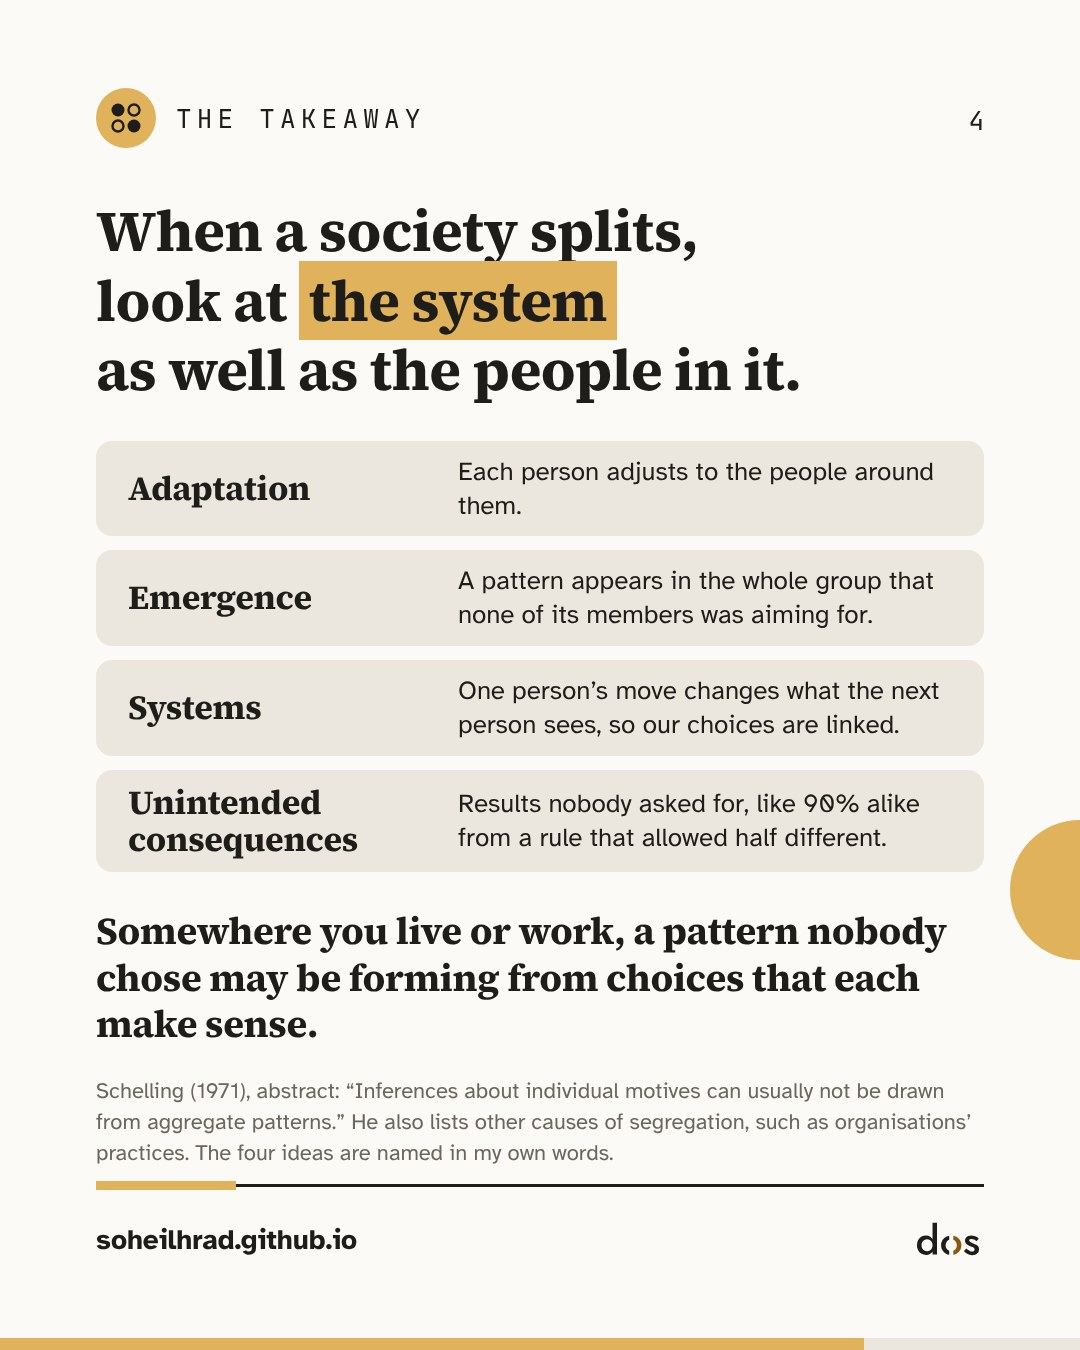
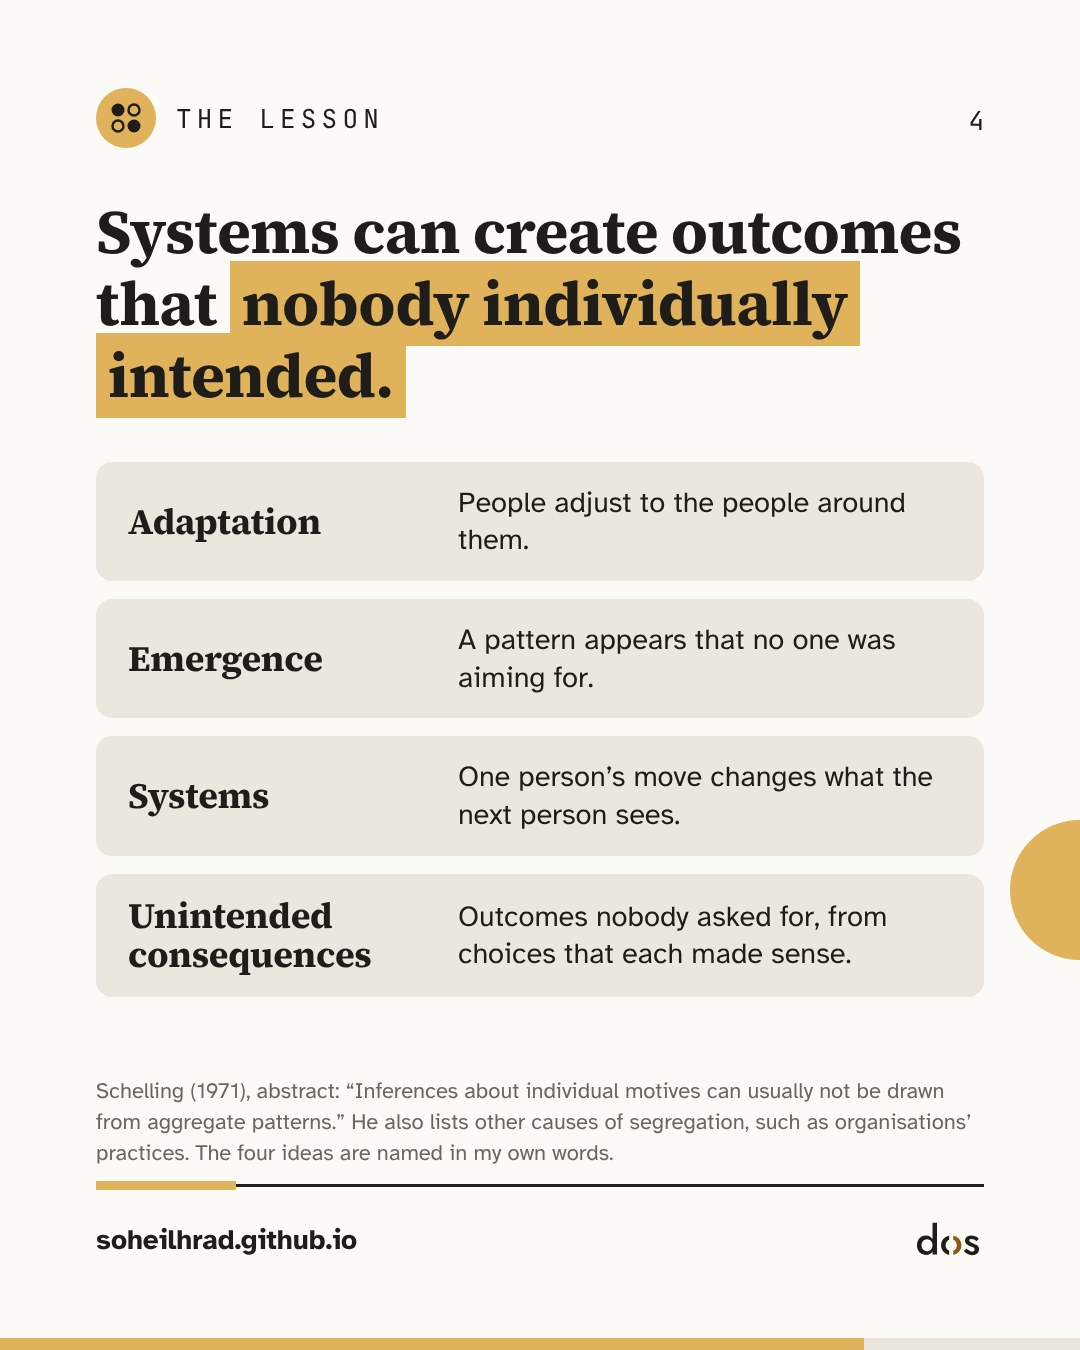
Schelling note: refocus the five slides on emergence
Slide 1 hook asks whether a divided world can emerge from reasonable
choices; slide 2 leads with the outcome rather than the figure; slide 3
shows that each move changes what the next person sees; slide 4 is the
lesson behind the model; slide 5 ends on a question. Slide 1 is the
still board for now; the old animated version is removed because its
headline is outdated.

Claude-Session: https://claude.ai/code/session_01PL3C4wNgfD4zTrRayGWWdK

Changed region(s): [[0.0917, 0.1556, 0.9167, 0.7778], [0.2444, 0.0622, 0.3667, 0.0933]]

diff --git a/fa/_posts/2026-10-25-schelling-segregation.md b/fa/_posts/2026-10-25-schelling-segregation.md
@@ -12,16 +12,16 @@ slides_height: 1350
 slides_lang: en
 last_modified_at: 2026-10-25
 slides:
-  - file: slide1.gif
-    alt: "صفحهای از سکههای تیره و طلایی با چند خانهٔ خالی، که قدمبهقدم جابهجا میشوند تا رنگها در دستههایی کنار هم بنشینند. همه در اینجا میپذیرند که تا نیمی از همسایههایشان با آنها فرق داشته باشند. دو نوع سکه دو گروه را نشان میدهند. اگر کمتر از نیمی از همسایههای یک سکه مثل خودش باشند، به نزدیکترین خانهٔ خالیای میرود که در آن راضی خواهد بود."
+  - file: slide1.jpg
+    alt: "اگر جهانی دو دستهشده بتواند از انتخابهای معقول پدید بیاید چه؟ دو نوع سکه دو گروه را نشان میدهند. همه در اینجا میپذیرند که تا نیمی از همسایههایشان با آنها فرق داشته باشند. اگر کمتر از نیمی از همسایهها مثل خودش باشند، سکه به نزدیکترین خانهٔ خالیای میرود که در آن راضی خواهد بود. صفحهای ۱۲ در ۱۲ از سکههای تیره و طلایی با چند خانهٔ خالی، پس از جابهجاییها، با رنگهایی که دستهدسته کنار هماند."
   - file: slide2.jpg
-    alt: "تا نیمی از همسایهها میتوانستند متفاوت باشند. ۹۰ درصد همرنگ شدند. در یکی از مثالهای حلشدهٔ شلینگ، اگر خودِ فرد را هم بشماریم، یک آدم معمولی در محلهای میماند که ۹۰ درصدِ آن همرنگ خودش است. دو صفحه: آغاز، با رنگهای درهم، و پس از جابهجاییها، با رنگهایی که دستهدسته کنار هماند. این یک اجرای شبیهسازی خودم از قاعده روی صفحهای ۱۲ در ۱۲ است که به ۸۳ درصد میرسد."
+    alt: "بیش از آنچه کسی خواسته بود دو دسته شد. هر سکه فقط لازم داشت که نیمی از همسایههایش مثل خودش باشند. در یکی از مثالهای حلشدهٔ شلینگ، اگر خودِ فرد را هم بشماریم، یک آدم معمولی در محلهای میماند که ۹۰ درصدِ آن همرنگ خودش است. دو صفحه: آغاز، با رنگهای درهم، و پس از جابهجاییها، با رنگهایی که دستهدسته کنار هماند. این یک اجرای شبیهسازی خودم از قاعده روی صفحهای ۱۲ در ۱۲ است که به ۸۳ درصد میرسد."
   - file: slide3.jpg
-    alt: "یک جابهجایی، چیزی را که نفر بعدی میبیند عوض میکند. قاعدهای که نیمی را میخواهد، اینگونه میتواند به ۹۰ درصد برسد. سه صفحهٔ کوچک پشت سر هم: یک سکه راضی نیست و جابهجا میشود؛ آمدنش چیزی را که یک همسایه میبیند عوض میکند؛ حالا آن سکه هم جابهجا میشود و سکهای دیگر ناراضی میشود. هیچکس الگو را برنامهریزی نمیکند. الگو گامبهگام ساخته میشود."
+    alt: "الگو با قصد یکی نیست. هر جابهجایی چیزی را که نفر بعدی میبیند عوض میکند. سه صفحهٔ کوچک پشت سر هم: یک سکه راضی نیست و جابهجا میشود؛ آمدنش چیزی را که یک همسایه میبیند عوض میکند؛ حالا آن سکه هم جابهجا میشود و سکهای دیگر ناراضی میشود. روی این صفحه، لازم نیست کسی دو دسته شدن را بخواهد تا دو دستگی شکل بگیرد."
   - file: slide4.jpg
-    alt: "وقتی جامعهای دو دسته میشود، هم به سیستم نگاه کنید و هم به آدمهایی که در آناند. سازگاری: هر کس خودش را با آدمهای پیرامونش تنظیم میکند. پدیدآیی: در کل گروه الگویی پیدا میشود که هیچیک از اعضا هدفش نبود. سیستمها: جابهجایی یک نفر چیزی را که نفر بعدی میبیند عوض میکند، پس انتخابهای ما به هم پیوستهاند. پیامدهای ناخواسته: نتیجههایی که هیچکس نخواسته بود، مثل ۹۰ درصد همرنگ از قاعدهای که تا نیمی ناهمرنگ را میپذیرفت. جایی که زندگی یا کار میکنید، شاید الگویی که هیچکس انتخابش نکرده است از انتخابهایی شکل بگیرد که هر کدام بهتنهایی معقولاند."
+    alt: "سیستمها میتوانند نتیجههایی بسازند که هیچکس بهتنهایی قصدشان را نداشت. سازگاری: آدمها خودشان را با آدمهای پیرامونشان تنظیم میکنند. پدیدآیی: الگویی پیدا میشود که هیچکس هدفش را نداشت. سیستمها: جابهجایی یک نفر چیزی را که نفر بعدی میبیند عوض میکند. پیامدهای ناخواسته: نتیجههایی که هیچکس نخواسته بود، از انتخابهایی که هر کدام بهتنهایی معقول بودند."
   - file: slide5.jpg
-    alt: "هیچکس روی این صفحه نقشهای دو دستهشده نمیخواست. هر سکه یک جابهجایی کوچک کرد که برای خودش معنا داشت. با هم، جابهجاییها الگویی شدند که هیچکدامشان انتخابش نکرده بود. ما هر روز جابهجاییهایی از این دست میکنیم: کنار چه کسی مینشینیم، چه کسی را دنبال میکنیم، چه میخوانیم، کجا راحتایم. بیشترشان هرگز شبیه تصمیم نیستند. جابهجاییهای کوچک این الگو را ساختند. جابهجاییهای کوچک چیزی هم هستند که هر یک از ما در اختیار داریم."
+    alt: "هیچکس روی این صفحه نقشهای دو دستهشده نمیخواست. ما هر روز جابهجاییهایی از این دست میکنیم: کنار چه کسی مینشینیم، چه کسی را دنبال میکنیم، چه میخوانیم، کجا راحتایم. بیشترشان هرگز شبیه تصمیم نیستند. اگر جابهجاییهای کوچک میتوانند الگوهایی بسازند که هیچکس انتخابشان نکرده، جابهجاییهای کوچکِ خودِ ما امروز چه الگوهایی میسازند؟ کدامیک شاید از من باشد؟"
 ---
 
 {% include slides.html %}
@@ -34,16 +34,14 @@ slides:
 
 این چگونه پیش میآید؟ به گفتهٔ شلینگ (ترجمه): «در این مدل هیچکس حرکت دیگران را پیشبینی نمیکند.» هر جابهجایی محلهٔ کسِ دیگری را عوض میکند و همین میتواند جابهجایی بعدی را به راه بیندازد. چیزی که برایم ماندگار است، عادی بودن هر گام است. یک سکه جابهجا میشود چون کمی احساس غریبگی میکند، و جابهجاییاش چیزی را که همسایههایش میبینند عوض میکند، پس یک نفر دیگر جابهجا میشود. هیچکس دو دسته شدن را برنامهریزی نمیکند، و لازم هم نیست.
 
-## چهار ایده، به زبان ساده
+## درسی که پشت این مدل است
 
-این چهار ایده در مدلی از این دست ملموس میشوند. تعریفهای ساده از خودم است، نه از شلینگ.
+سیستمها میتوانند نتیجههایی بسازند که هیچکس بهتنهایی قصدشان را نداشت. چهار ایده در مدلی از این دست ملموس میشوند. تعریفهای ساده از خودم است، نه از شلینگ.
 
-- **سازگاری (adaptation):** هر کس خودش را با آدمهای پیرامونش تنظیم میکند.
-- **پدیدآیی (emergence):** در کل گروه الگویی پیدا میشود که هیچیک از اعضا هدفش نبود.
-- **سیستمها (systems):** جابهجایی یک نفر چیزی را که نفر بعدی میبیند عوض میکند، پس انتخابهای ما به هم پیوستهاند.
-- **پیامدهای ناخواسته (unintended consequences):** نتیجههایی که هیچکس نخواسته بود، مثل ۹۰ درصد همرنگ از قاعدهای که تا نیمی ناهمرنگ را میپذیرفت.
-
-وقتی جامعهای دو دسته میشود، شایسته است هم به سیستم نگاه کنیم و هم به آدمهایی که در آناند.
+- **سازگاری (adaptation):** آدمها خودشان را با آدمهای پیرامونشان تنظیم میکنند.
+- **پدیدآیی (emergence):** الگویی پیدا میشود که هیچکس هدفش را نداشت.
+- **سیستمها (systems):** جابهجایی یک نفر چیزی را که نفر بعدی میبیند عوض میکند.
+- **پیامدهای ناخواسته (unintended consequences):** نتیجههایی که هیچکس نخواسته بود، از انتخابهایی که هر کدام بهتنهایی معقول بودند.
 
 ## چرا برایم ماندگار است
 

diff --git a/_posts/2026-10-25-schelling-segregation.md b/_posts/2026-10-25-schelling-segregation.md
@@ -9,16 +9,16 @@ slides_width: 1080
 slides_height: 1350
 last_modified_at: 2026-10-25
 slides:
-  - file: slide1.gif
-    alt: "A board of dark and gold coins with some empty squares, moving step by step until the colours settle into clumps. Everyone here accepts up to half of their neighbours being different. Two kinds of coins stand for two groups. If fewer than half of a coin's neighbours are like it, it moves to the nearest empty square where it would be content."
+  - file: slide1.jpg
+    alt: "What if a divided world can emerge from reasonable choices? Two kinds of coins stand for two groups. Everyone here accepts up to half of their neighbours being different. If fewer than half are like it, a coin moves to the nearest empty square where it would be content. A 12 by 12 board of dark and gold coins with some empty squares, shown after the moves, with the colours in clumps."
   - file: slide2.jpg
-    alt: "Up to half could be different. 90% ended up alike. In one of Schelling's worked examples, the average person ends up in a neighbourhood that is 90% their own colour, counting themselves. Two boards: the start, with the colours mixed, and after the moves, with the colours in clumps. My own run of the rule on a 12 by 12 board, which ends at 83%."
+    alt: "More divided than anyone asked for. Each coin only needed half of its neighbours to be like it. In one of Schelling's worked examples, the average person ends up in a neighbourhood that is 90% their own colour, counting themselves. Two boards: the start, with the colours mixed, and after the moves, with the colours in clumps. My own run of the rule on a 12 by 12 board, which ends at 83%."
   - file: slide3.jpg
-    alt: "One move changes what the next person sees. That is how a rule about half can end at 90%. Three small boards in a row: one coin is not content, so it moves; its arrival changes what a neighbour sees; now that one moves too, and another coin is unhappy. Nobody plans the pattern. It builds up, one move at a time."
+    alt: "The pattern is not the same as the intention. Each move changes what the next person sees. Three small boards in a row: one coin is not content, so it moves; its arrival changes what a neighbour sees; now that one moves too, and another coin is unhappy. On this board, no one has to want a divide for one to form."
   - file: slide4.jpg
-    alt: "When a society splits, look at the system as well as the people in it. Adaptation: each person adjusts to the people around them. Emergence: a pattern appears in the whole group that none of its members was aiming for. Systems: one person's move changes what the next person sees, so our choices are linked. Unintended consequences: results nobody asked for, like 90% alike from a rule that allowed half different. Somewhere you live or work, a pattern nobody chose may be forming from choices that each make sense."
+    alt: "Systems can create outcomes that nobody individually intended. Adaptation: people adjust to the people around them. Emergence: a pattern appears that no one was aiming for. Systems: one person's move changes what the next person sees. Unintended consequences: outcomes nobody asked for, from choices that each made sense."
   - file: slide5.jpg
-    alt: "Nobody on this board wanted a divided map. Each coin made one small move that made sense to it. Together, the moves became a pattern that none of them chose. We make moves like these every day: who we sit with, who we follow, what we read, where we feel at ease. Most of them never feel like decisions. Small moves built this pattern. Small moves are also what each of us has to work with."
+    alt: "Nobody on this board wanted a divided map. We make moves like these every day: who we sit with, who we follow, what we read, where we feel at ease. Most of them never feel like decisions. If small moves can create patterns nobody chose, what patterns are our own small moves creating today? Which of them might be mine?"
 ---
 
 {% include slides.html %}
@@ -31,16 +31,14 @@ So every coin accepts up to half of its neighbours being different. Yet in one o
 
 How does that happen? In Schelling's words: "Nobody in this model anticipates the movements of others." Each move changes the neighbourhood of someone else, and that can set off the next move. What stays with me is how ordinary each step is. One coin moves because it feels a little out of place, and its move changes what its neighbours see, so someone else moves. No one plans a divide, and no one needs to.
 
-## Four ideas, in plain words
+## The lesson behind the model
 
-These four ideas become concrete in a model like this. The plain-words versions are mine, not Schelling's.
+Systems can create outcomes that nobody individually intended. Four ideas become concrete in a model like this. The plain-words versions are mine, not Schelling's.
 
-- **Adaptation:** each person adjusts to the people around them.
-- **Emergence:** a pattern appears in the whole group that none of its members was aiming for.
-- **Systems:** one person's move changes what the next person sees, so our choices are linked.
-- **Unintended consequences:** results nobody asked for, like 90% alike from a rule that allowed half different.
-
-When a society splits, it is worth looking at the system as well as the people in it.
+- **Adaptation:** people adjust to the people around them.
+- **Emergence:** a pattern appears that no one was aiming for.
+- **Systems:** one person's move changes what the next person sees.
+- **Unintended consequences:** outcomes nobody asked for, from choices that each made sense.
 
 ## Why it stays with me
 
